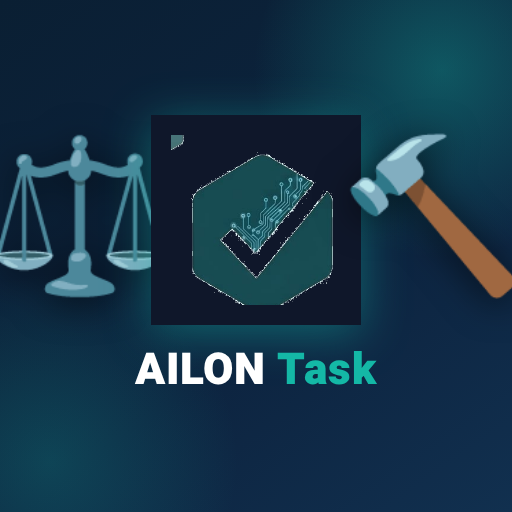
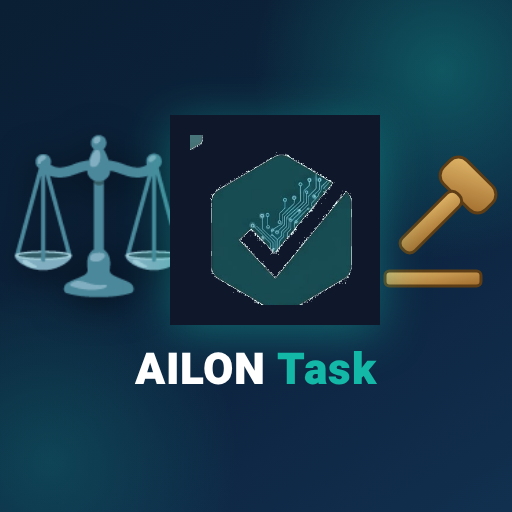
פטיש של בית משפט (SVG מוזלת עץ) במקום אמוג'י פטיש נגר באייקון ובתמונת השיתוף

Changed region(s): [[0.375, 0.2188, 1.0, 0.6562], [0.0, 0.2188, 0.4062, 0.6562]]

diff --git a/law-flyer/index.html b/law-flyer/index.html
@@ -12,15 +12,15 @@
 <meta property="og:url" content="https://lior-ailon.github.io/ailon-task-apps/law-flyer/">
 <meta property="og:title" content="AILON Task — פתרונות AI למשרדי עורכי דין">
 <meta property="og:description" content="המשרד מנהל את עצמו. כל מה שנשאר לכם — התיקים. ניהול תיקים, יומן ומועדים, מזכירה וירטואלית 24/7 ומעקב נט המשפט.">
-<meta property="og:image" content="https://lior-ailon.github.io/ailon-task-apps/law-flyer/img/og_law.png">
+<meta property="og:image" content="https://lior-ailon.github.io/ailon-task-apps/law-flyer/img/og_law.png?v=2">
 <meta property="og:image:width" content="1200">
 <meta property="og:image:height" content="630">
 <meta name="twitter:card" content="summary_large_image">
 <meta name="twitter:title" content="AILON Task — פתרונות AI למשרדי עורכי דין">
 <meta name="twitter:description" content="המשרד מנהל את עצמו. כל מה שנשאר לכם — התיקים.">
-<meta name="twitter:image" content="https://lior-ailon.github.io/ailon-task-apps/law-flyer/img/og_law.png">
-<link rel="icon" type="image/png" href="img/icon_law.png?v=20260915c">
-<link rel="apple-touch-icon" href="img/icon_law.png?v=20260915c">
+<meta name="twitter:image" content="https://lior-ailon.github.io/ailon-task-apps/law-flyer/img/og_law.png?v=2">
+<link rel="icon" type="image/png" href="img/icon_law.png?v=2">
+<link rel="apple-touch-icon" href="img/icon_law.png?v=2">
 <link href="https://fonts.googleapis.com/css2?family=Heebo:wght@300;400;600;800;900&display=swap" rel="stylesheet">
 <style>
 :root { --navy:#0d2440; --navy2:#11304f; --teal:#0d9488; --teal2:#14b8a6; --gold:#c5a059; }

diff --git a/law-office/index.html b/law-office/index.html
@@ -11,9 +11,9 @@
 <meta property="og:url" content="https://lior-ailon.github.io/ailon-task-apps/law-office/">
 <meta property="og:title" content="AILON LawDesk — ניהול תיקים ומועדים למשרד עורכי דין">
 <meta property="og:description" content="מערכת ניהול תיקים, יומן מועדי דיונים ותזכורות חכמות — דמו חי.">
-<meta property="og:image" content="https://lior-ailon.github.io/ailon-task-apps/law-flyer/img/og_law.png">
-<link rel="icon" type="image/png" href="https://lior-ailon.github.io/ailon-task-apps/law-flyer/img/icon_law.png?v=20260915c">
-<link rel="apple-touch-icon" href="https://lior-ailon.github.io/ailon-task-apps/law-flyer/img/icon_law.png?v=20260915c">
+<meta property="og:image" content="https://lior-ailon.github.io/ailon-task-apps/law-flyer/img/og_law.png?v=2">
+<link rel="icon" type="image/png" href="https://lior-ailon.github.io/ailon-task-apps/law-flyer/img/icon_law.png?v=2">
+<link rel="apple-touch-icon" href="https://lior-ailon.github.io/ailon-task-apps/law-flyer/img/icon_law.png?v=2">
 <link href="https://fonts.googleapis.com/css2?family=Heebo:wght@300;400;600;800;900&display=swap" rel="stylesheet">
 <style>
 :root { --navy:#0d2440; --navy2:#11304f; --teal:#0d9488; --teal2:#14b8a6; --red:#ef4444; --amber:#f59e0b; --green:#10b981; --bg:#f4f7f9; --card:#fff; --text:#1e293b; --sub:#64748b; }
